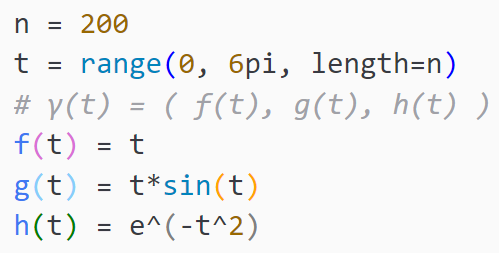
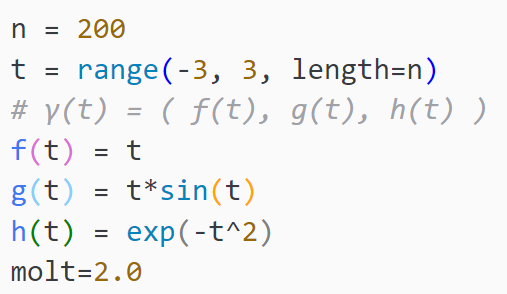
Added molt variable for vectors' magnitude

diff --git a/README.md b/README.md
@@ -14,6 +14,10 @@ and the parametric equation for the curve itself:
 4. g(t): second component of the curve
 5. h(t): third component of the curve
 
+and finally
+
+6. molt: the coefficient to determine the magnitude of the versors of the trihedron
+
 ![These ones](examples/instructions.png)
 
 
